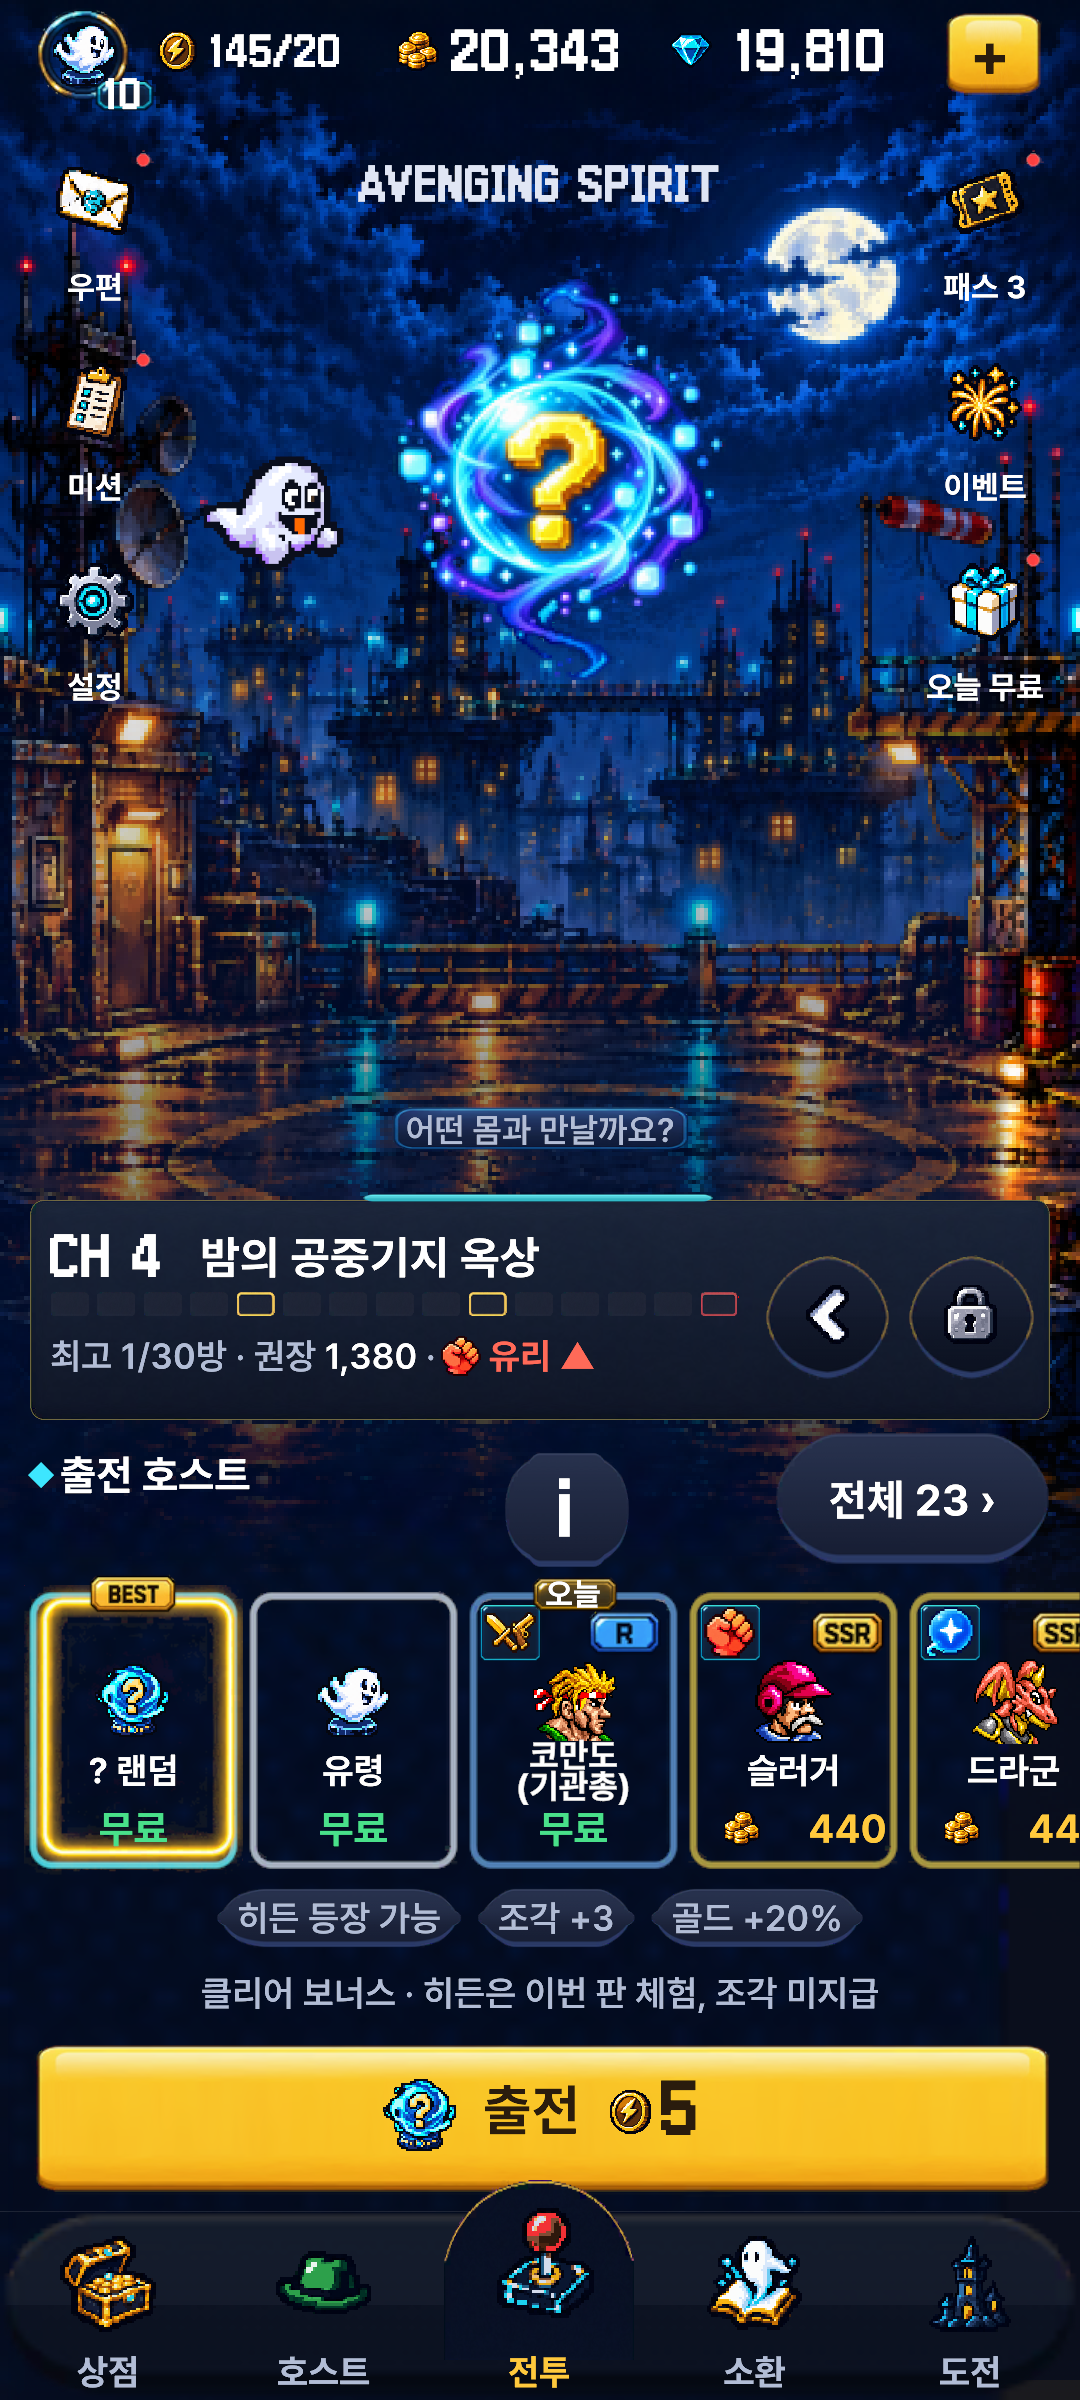
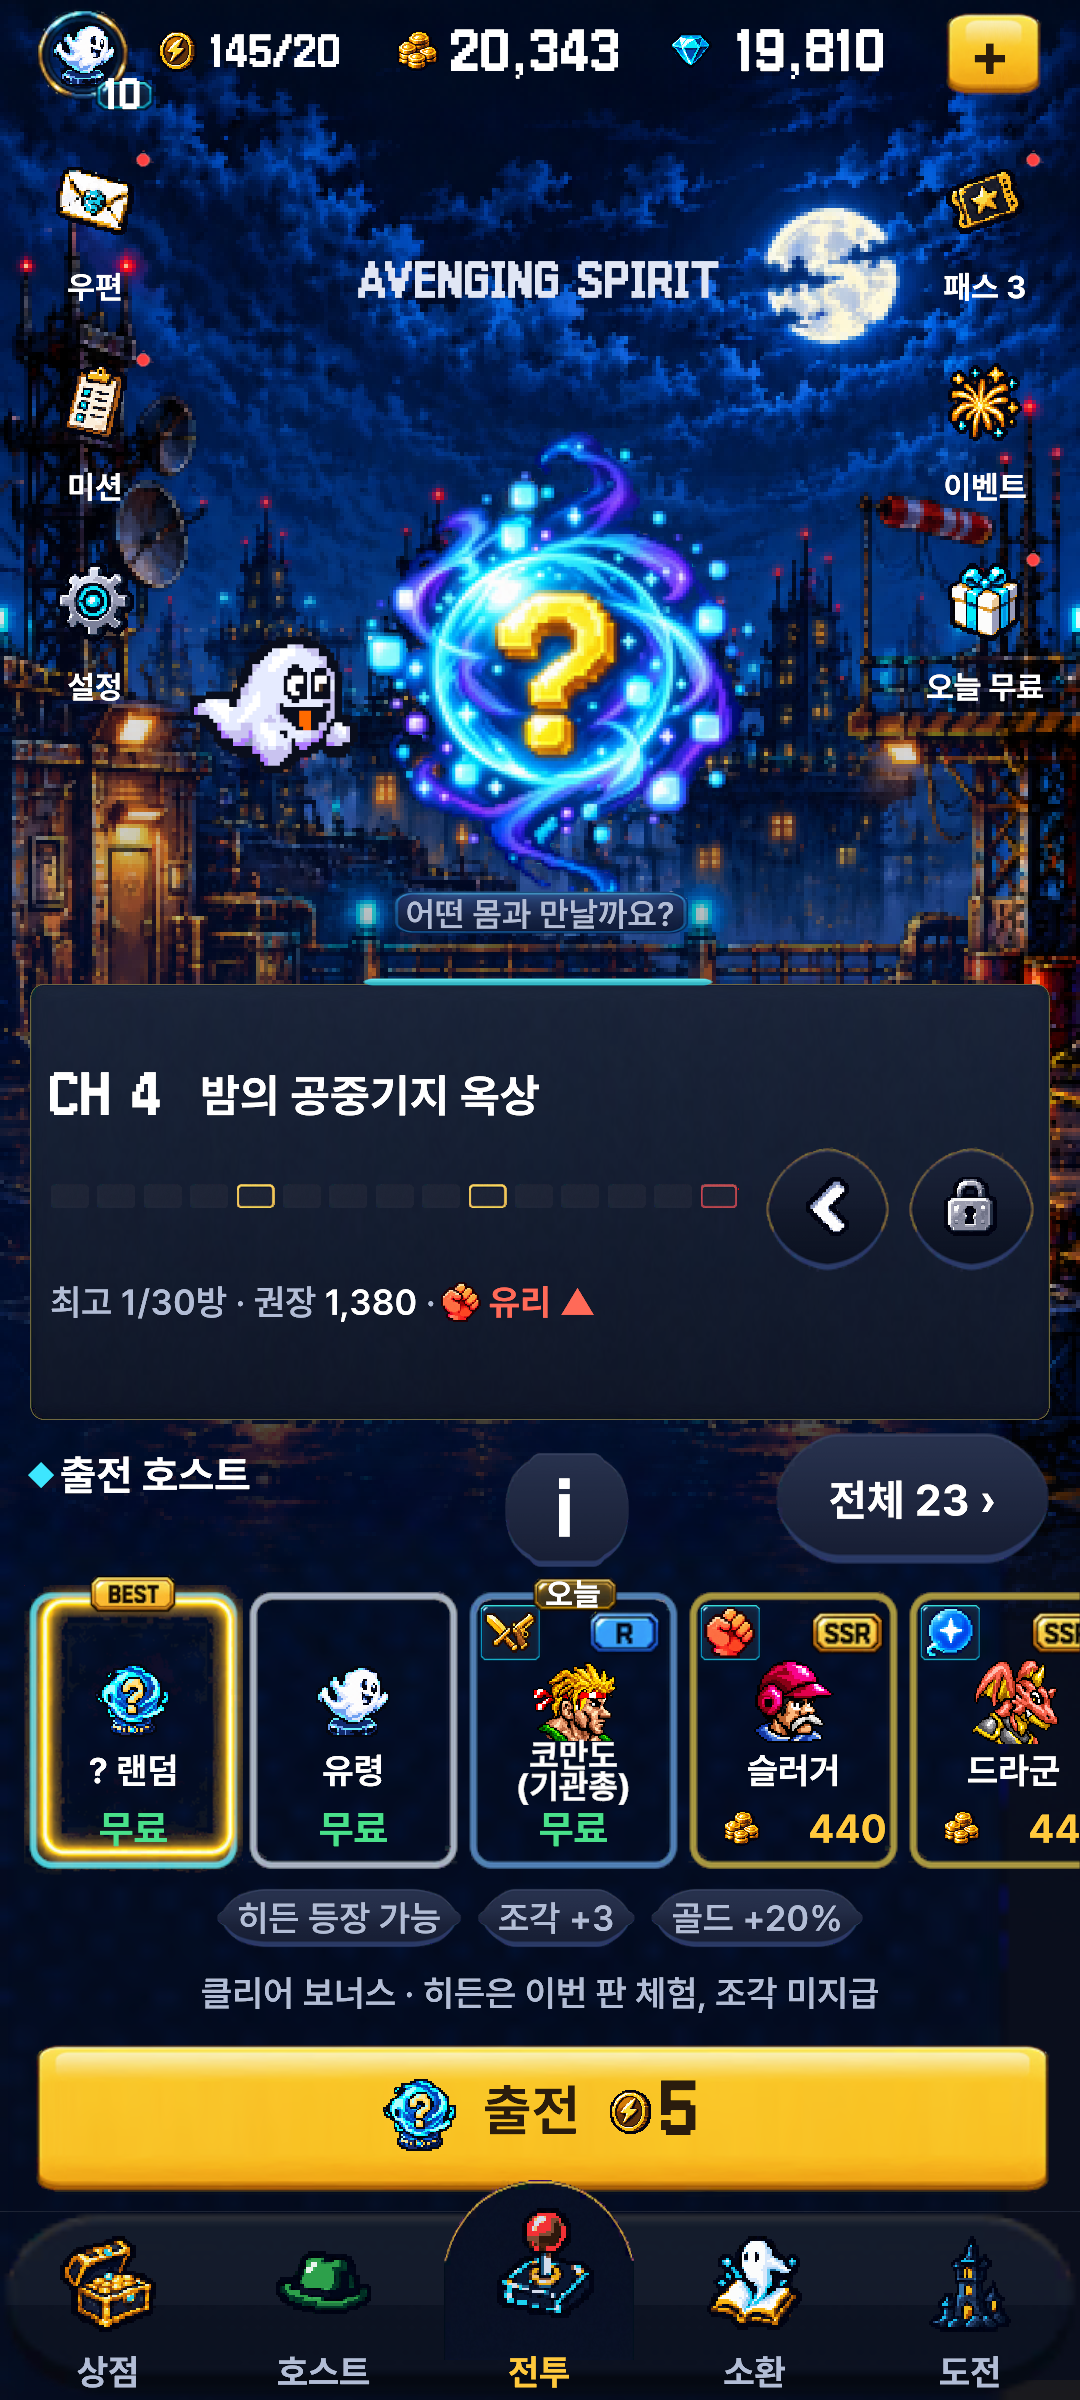
AVSR 로비 20:9 빈 곳 메우기 — 16:9 보다 남는 세로를 나눠 줌: 구슬 묶음 내리고 키움 · 챕터 칸 위로 키워 글줄 가운데 정렬 (PD 2026-10-27)

Changed region(s): [[0.0306, 0.0625, 0.9778, 0.5938], [0.1833, 0.1875, 0.3361, 0.3438]]

diff --git a/Assets/Scripts/Module/Lobby/RbLobbyUI.cs b/Assets/Scripts/Module/Lobby/RbLobbyUI.cs
@@ -142,6 +142,7 @@ namespace Game.Module.Lobby
             BuildCards();
             RefreshAll();
             SelectTab("Battle");
+            LayoutTall();
             LayoutRails();
             // 실패 결과 「성장 ›」 으로 왔으면 그 몸의 성장 화면부터(시안 result-fail)
             string growHost = LobbyRequest.TakeGrowthHost();
@@ -154,7 +155,61 @@ namespace Game.Module.Lobby
         // 화면 높이가 바뀌면(회전 · 창 크기) 양옆 아이콘 간격을 다시 잰다
         private void OnRectTransformDimensionsChange()
         {
-            if (_ui != null) LayoutRails();
+            if (_ui == null) return;
+            LayoutTall();
+            LayoutRails();
+        }
+
+        // ── 긴 화면(20:9) — 16:9(1280 높이)보다 남는 세로가 구슬과 챕터 칸 사이에 몰려 비었다(PD 2026-10-27).
+        //    남는 만큼 나눠 준다: 위 묶음은 내리고 구슬을 키우고, 챕터 칸은 아래 끝을 둔 채 위로 키워 글줄을 칸 가운데에 모은다.
+        //    16:9 · 4:3 은 남는 세로가 없어 손대지 않는다
+        private const float DesignHeight = 1280f;   // 16:9 화면 높이 — 이 배치가 보기 좋다(PD 확인 화면)
+        private const float TopShare = 0.4f, CardShare = 0.45f, RowSpread = 0.25f, OrbGrowPer = 0.001f, OrbGrowMax = 0.2f;
+        private static readonly string[] TallTopNodes = { "StageOrb", "StageHost", "StageGhost" };
+        private readonly Dictionary<RectTransform, (Vector2 pos, Vector2 size)> _tallBase = new();
+
+        private void LayoutTall()
+        {
+            var root = (RectTransform)transform;
+            if (root.rect.height <= 0f) return;
+            float extra = Mathf.Max(0f, root.rect.height - DesignHeight);
+            float grow = Mathf.Min(OrbGrowMax, extra * OrbGrowPer);
+            float top = extra * TopShare, d = extra * CardShare;
+            if (_ui.Find("StageTitle") is RectTransform title) Shift(title, -top * 0.5f);
+            foreach (var n in TallTopNodes)
+            {
+                if (_ui.Find(n) is not RectTransform r) continue;
+                Shift(r, -top);
+                r.localScale = Vector3.one * (1f + grow);
+            }
+            if (_ui.Find("StagePrompt") is RectTransform prompt) Shift(prompt, d);
+            if (_ui.Find("ChapterCard") is not RectTransform card) return;
+            var cb = Base(card);
+            card.sizeDelta = new Vector2(cb.size.x, cb.size.y + d);
+            card.anchoredPosition = new Vector2(cb.pos.x, cb.pos.y + d * 0.5f);
+            // 자식은 칸 가운데 기준이라 그대로 가운데에 모인다 — 위 한 줄만 윗변에 붙이고, 제목 줄 · 안내 줄은 위아래로 조금 벌린다
+            if (_ui.Find("ChapterTopLine") is RectTransform line) Shift(line, d * 0.5f);
+            if (_ui.Find("ChapterOpen") is RectTransform open)
+            {
+                var ob = Base(open);
+                open.sizeDelta = new Vector2(ob.size.x, ob.size.y + d);
+            }
+            foreach (var n in new[] { "ChapterNoText", "ChapterNameText" })
+                if (_ui.Find(n) is RectTransform r) Shift(r, d * RowSpread);
+            foreach (var n in new[] { "ChapterInfoText", "ChapterAdvIcon", "ChapterAdvText" })
+                if (_ui.Find(n) is RectTransform r) Shift(r, -d * RowSpread);
+        }
+
+        private (Vector2 pos, Vector2 size) Base(RectTransform r)
+        {
+            if (!_tallBase.TryGetValue(r, out var b)) _tallBase[r] = b = (r.anchoredPosition, r.sizeDelta);
+            return b;
+        }
+
+        private void Shift(RectTransform r, float dy)
+        {
+            var b = Base(r);
+            r.anchoredPosition = new Vector2(r.anchoredPosition.x, b.pos.y + dy);
         }
 
         // ── 양옆 아이콘 — 16:9 는 20:9 시안보다 세로가 짧아 챕터 카드에 아래 아이콘이 가린다. 간격만 줄인다 ──────────
